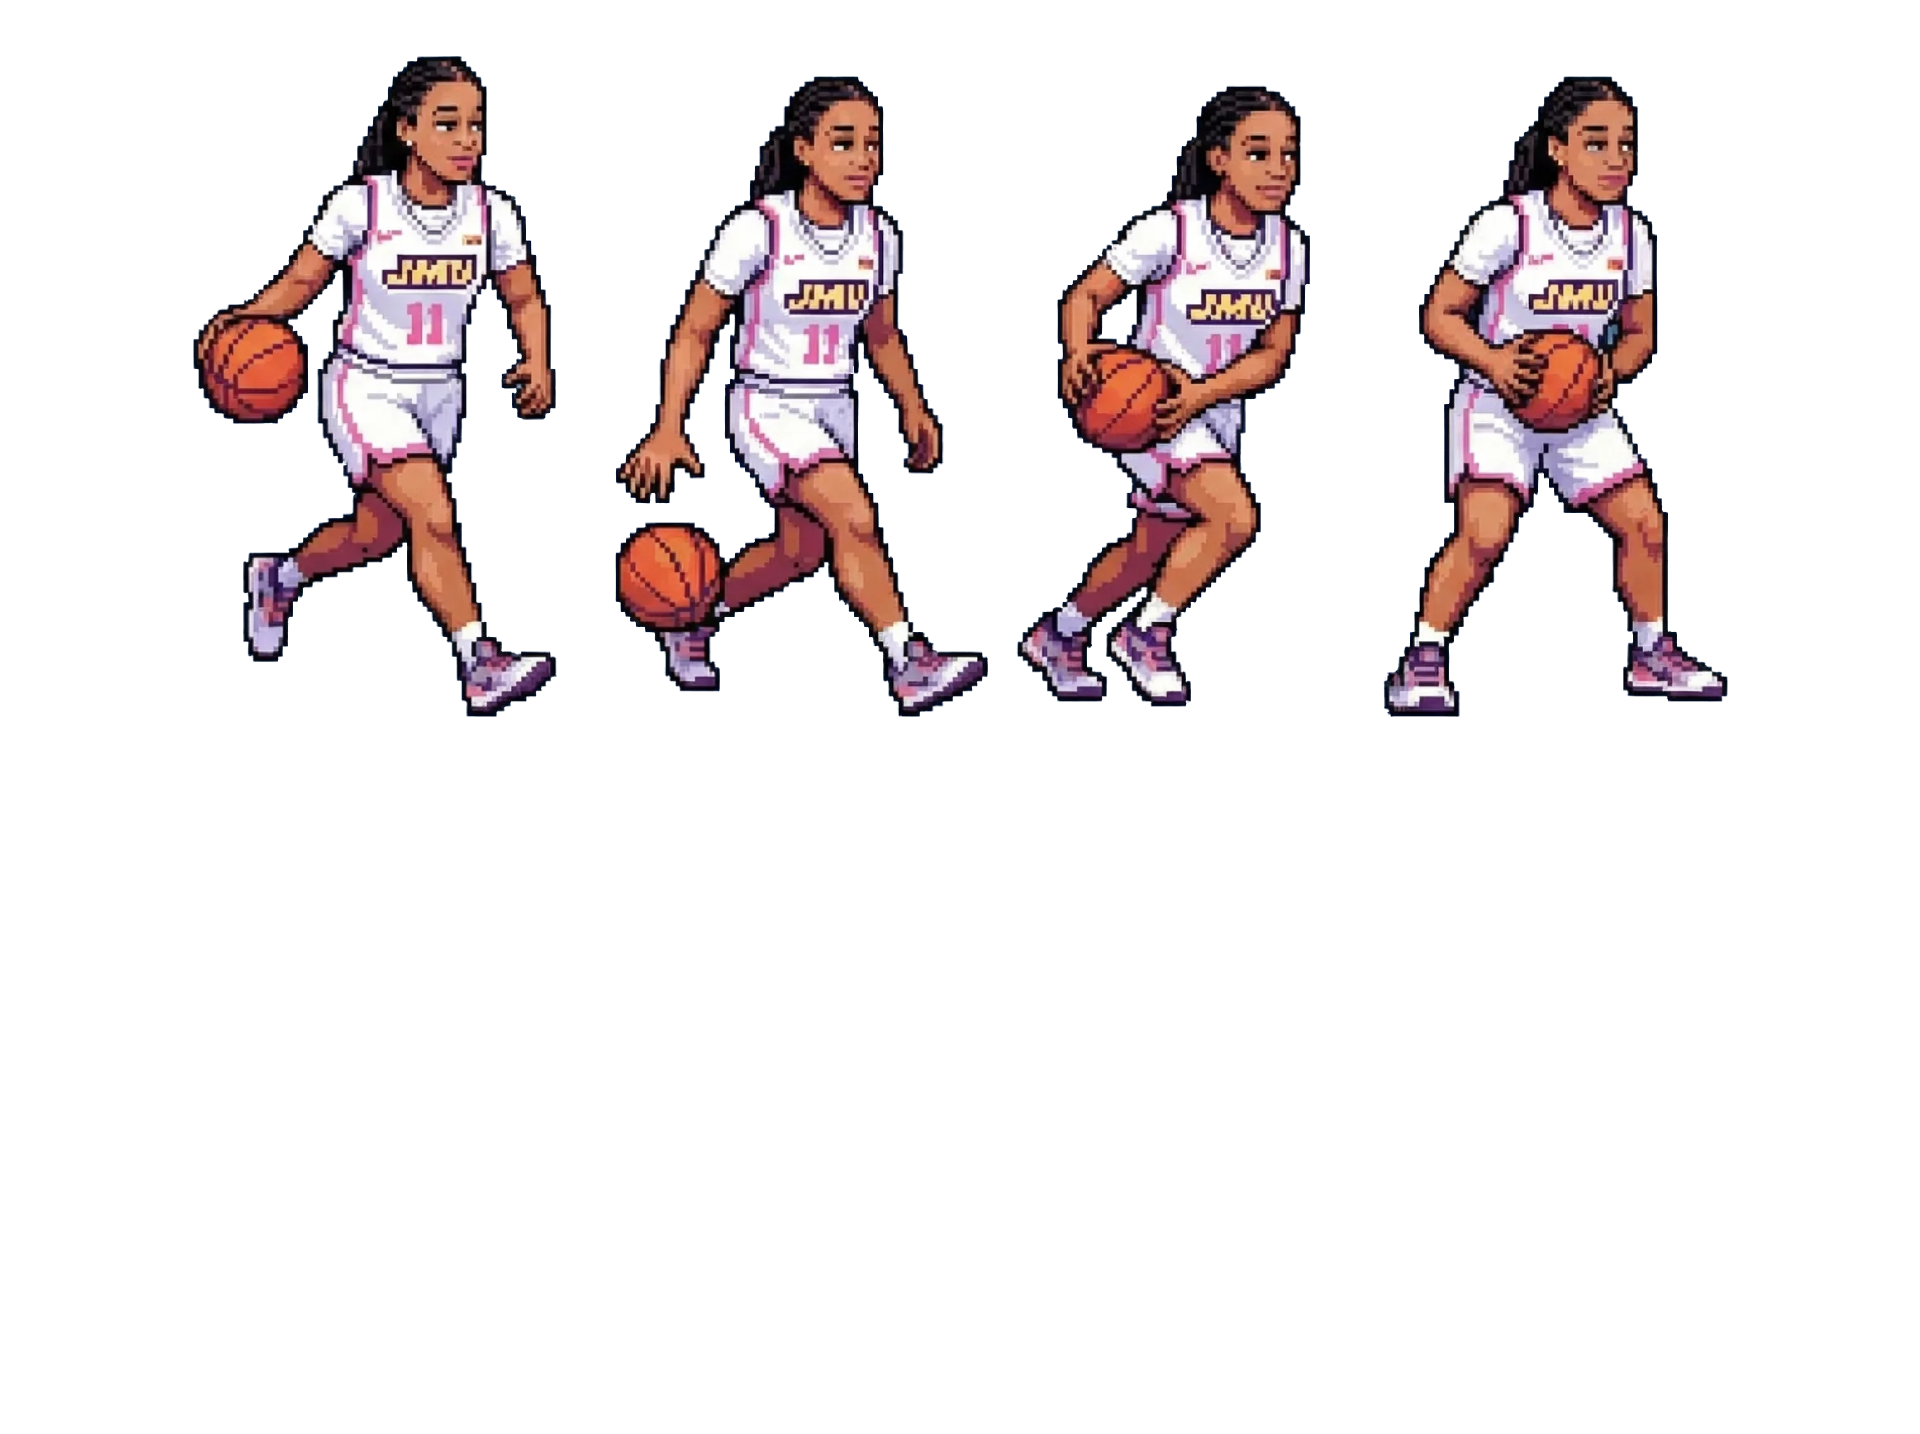
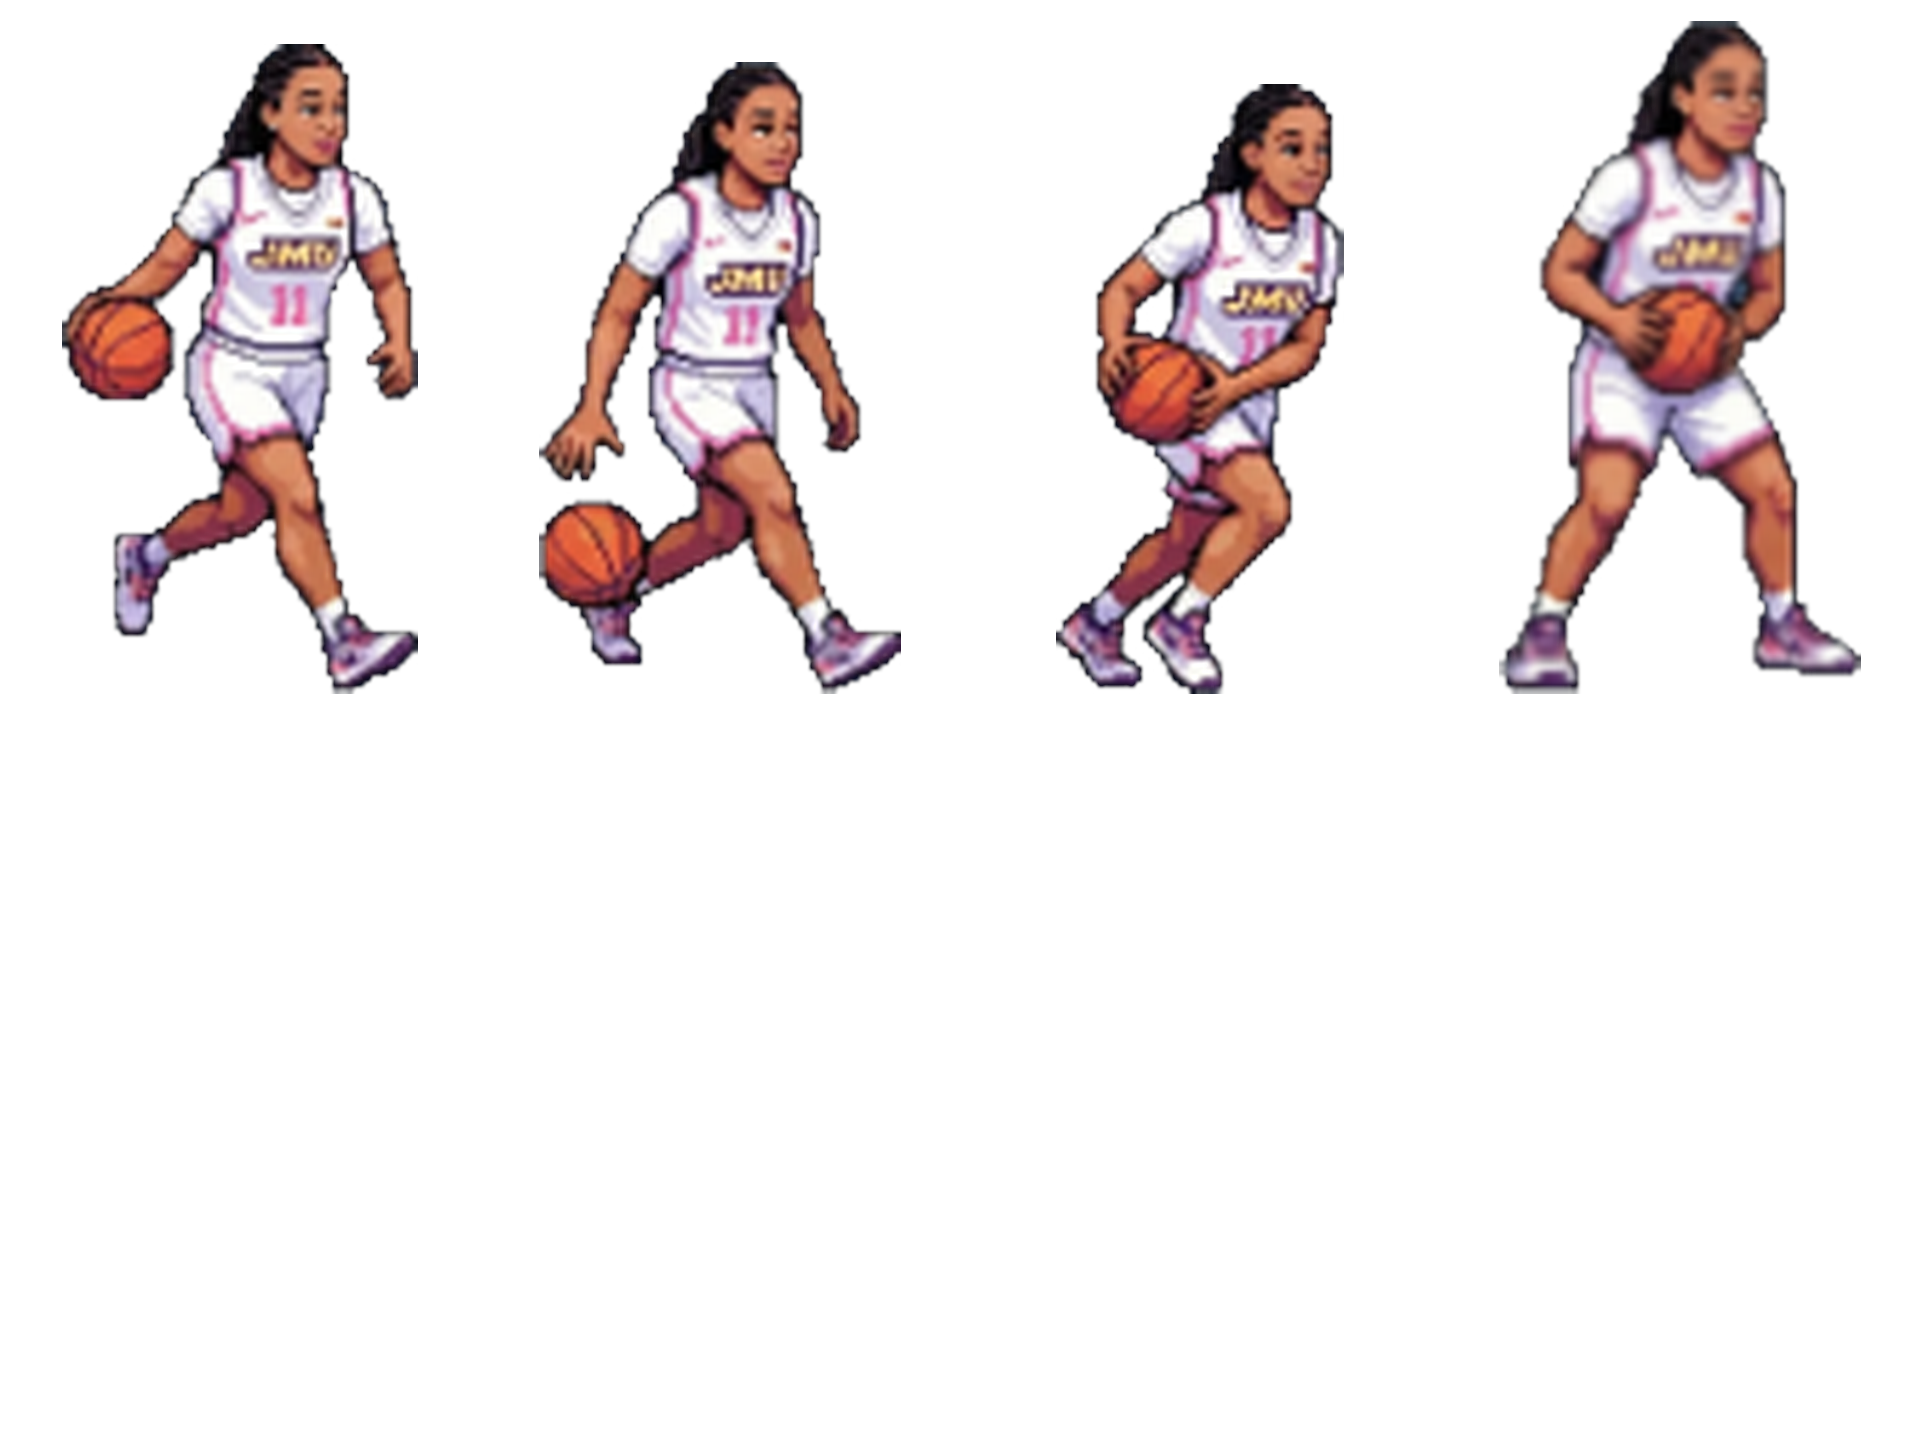
Recalibrate all 4 animations from unified sprite sheet
Extracted idle dribble (6f), running dribble (8f), jumpshot (7f), and
stepback (4f) from single reference sheet. All use same art scale (5.75x)
and foot alignment. Jumpshot uses 480x1000 frames for taller jump pose.

Changed region(s): [[0.0312, 0.0, 0.9688, 0.5216]]

diff --git a/src/rendering/PlayerRenderer.ts b/src/rendering/PlayerRenderer.ts
@@ -6,9 +6,9 @@ import { PLAYER_STATE } from '../simulation/PlayerStates';
 const SPRITE_SCALE = 0.055;
 // All 480x717 animations use the same scale/origin as the running dribble (the gold standard)
 const ANIM_SCALE = 0.197;
-// Jumpshot frames are 480x1150 (character reaching up). Scale up so body width matches dribble.
-// Art is 240px wide; at 0.32 it displays at 77px (close to dribble's ~82px character width).
-const JUMPSHOT_SCALE = 0.32;
+// Jumpshot frames are 480x1000 (character reaching up). Scale up so body width ~matches dribble.
+// Avg art ~280px wide; at 0.28 displays at 78px (close to dribble's ~79px character width).
+const JUMPSHOT_SCALE = 0.28;
 
 export class PlayerRenderer {
   private graphics: Phaser.GameObjects.Graphics;
@@ -106,8 +106,7 @@ export class PlayerRenderer {
       this.hasJumpshot = true;
       this.jumpshotSprite = scene.add.sprite(0, 0, jumpshotAnimKey.replace('-anim', ''));
       this.jumpshotSprite.setScale(JUMPSHOT_SCALE);
-      this.jumpshotSprite.setOrigin(0.5, 0.93);
-      this.jumpshotSprite.setOrigin(0.5, 0.93);
+      this.jumpshotSprite.setOrigin(0.5, 0.97);
       this.jumpshotSprite.setDepth(10);
       this.jumpshotSprite.setVisible(false);
     }
@@ -198,7 +197,7 @@ export class PlayerRenderer {
       this.jumpshotSprite.setPosition(p.position.x, p.position.y);
       this.jumpshotSprite.setFlipX(Math.cos(p.facingAngle) < 0);
       this.jumpshotSprite.setScale(JUMPSHOT_SCALE);
-      this.jumpshotSprite.setOrigin(0.5, 0.93);
+      this.jumpshotSprite.setOrigin(0.5, 0.97);
       this.jumpshotSprite.setAlpha(1);
       if (!this.jumpshotSprite.anims.isPlaying || this.jumpshotSprite.anims.currentAnim?.key !== this.jumpshotKey) {
         this.jumpshotSprite.play(this.jumpshotKey);

diff --git a/src/scenes/PreloadScene.ts b/src/scenes/PreloadScene.ts
@@ -71,10 +71,10 @@ export class PreloadScene extends Phaser.Scene {
       frameHeight: 717,
     });
 
-    // Breezy jumpshot: 4 cols x 2 rows = 8 frames, each 480x1150 (reprocessed from 240px-wide)
+    // Breezy jumpshot: 4 cols x 2 rows, 7 usable frames, each 480x1000
     this.load.spritesheet('breezy-jumpshot', 'assets/images/breezy-jumpshot.png', {
       frameWidth: 480,
-      frameHeight: 1150,
+      frameHeight: 1000,
     });
 
     // Breezy step back: 4 cols x 2 rows = 4 usable frames (top row), each 480x717
@@ -126,7 +126,7 @@ export class PreloadScene extends Phaser.Scene {
     // Jumpshot (play once through the shot)
     this.anims.create({
       key: 'breezy-jumpshot-anim',
-      frames: this.anims.generateFrameNumbers('breezy-jumpshot', { start: 0, end: 7 }),
+      frames: this.anims.generateFrameNumbers('breezy-jumpshot', { start: 0, end: 6 }),
       frameRate: 12,
       repeat: 0,
     });
